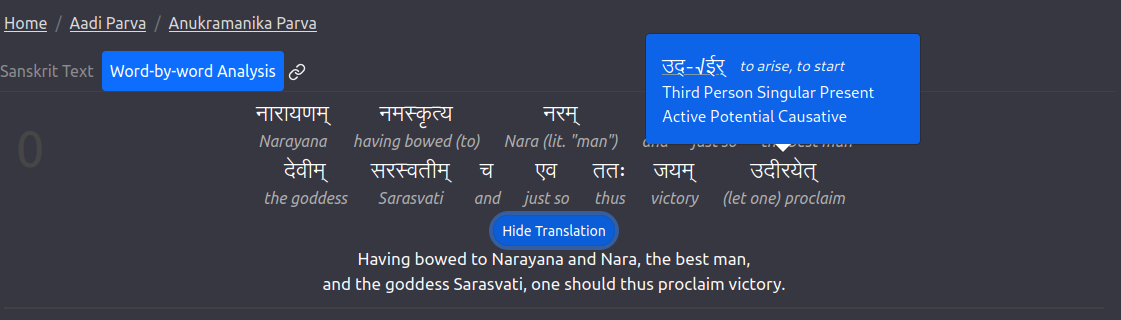
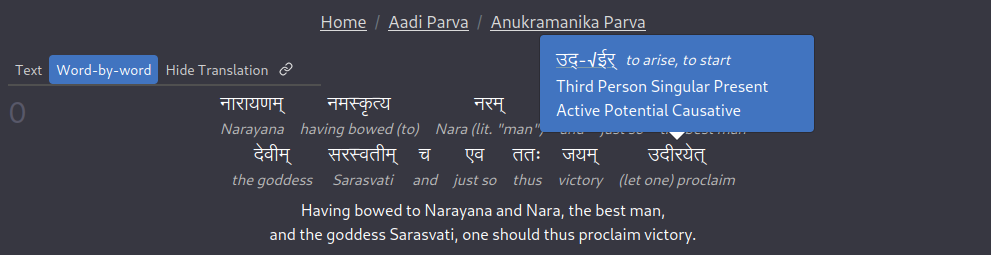
Centers breadcrumbs, reduces verse text width

Changed region(s): [[0.0, 0.0549, 0.8476, 0.9608], [0.0, 0.3843, 0.0303, 0.4941]]

diff --git a/src/components/breadcrumbs.js b/src/components/breadcrumbs.js
@@ -1,15 +1,12 @@
 import { Link } from 'gatsby'
 import * as React from 'react'
 import { Breadcrumb } from 'react-bootstrap'
-import useIsMobile from '../util/responsiveness'
 import { titleCaseFromUrl } from '../util/util'
 
 
 const ResponsiveBreadcrumbs = ({ location }) => {
-    const isMobile = useIsMobile()
-
     let breadcrumbStyle = {
-        fontSize: "16px"
+        fontSize: "17px"
     };
     let breadcrumbs = [
         <Breadcrumb.Item key="/" linkProps={{ "to": "/" }} linkAs={Link} style={breadcrumbStyle}>
@@ -28,12 +25,12 @@ const ResponsiveBreadcrumbs = ({ location }) => {
     }
 
     return (
-        (isMobile) ?
-            <></>
-            :
-            <Breadcrumb style={{ paddingBottom: "5px" }}>
-                {breadcrumbs}
-            </Breadcrumb>
+        <Breadcrumb style={{
+            paddingBottom: "5px", width: "fit-content",
+            marginLeft: "auto", marginRight: "auto"
+        }}>
+            {breadcrumbs}
+        </Breadcrumb>
     )
 }
 

diff --git a/src/pages/index.js b/src/pages/index.js
@@ -8,7 +8,7 @@ const BookLink = ({ book }) => {
     return (
         <Link to={toUrl(book)} style={{ textDecoration: "none" }}>
             <ListGroup.Item variant="dark" eventKey={book}>
-                <p style={{ fontSize: "20px" }}>
+                <p style={{ fontSize: "17px" }}>
                     {book}
                 </p>
             </ListGroup.Item>
@@ -27,7 +27,7 @@ const Index = ({ location, data }) => {
                 If this is your first time here, you may want to check out
                 the <Link to={toUrl("/about")}>About</Link> page.
                 Otherwise, click one of the rows below or use the <b>All Verses</b> button in the top-right
-                to get started!
+                to get started.
             </p>
             <ListGroup>
                 {

diff --git a/src/components/verse.js b/src/components/verse.js
@@ -240,8 +240,10 @@ const Verse = ({ num, text, wordByWord, translation, location }) => {
     return (
         <OffsetAnchor id={`verse_${num}`} >
             <div style={{
-                maxWidth: "1000px", marginRight: "auto", marginLeft: "auto",
-                paddingBottom: "5px", marginBottom: "5px",
+                maxWidth: "950px",
+                marginRight: "auto", marginLeft: "auto",
+                marginBottom: "5px",
+                paddingBottom: "5px",
                 backgroundColor: isActive ? "rgb(66, 66, 78)" : "inherit",
                 borderRadius: "7px",
             }}>

diff --git a/src/components/verse.module.css b/src/components/verse.module.css
@@ -1,6 +1,6 @@
 .verse-text {
     font-size: 19px;
-    color: rgb(252, 251, 250);
+    color: rgb(255, 255, 255);
     padding-bottom: 2px;
     white-space: pre-wrap;
     text-align: center;
@@ -10,7 +10,7 @@
 
 .translation-text {
     font-size: 16px;
-    color: rgb(252, 251, 250);
+    color: rgb(255, 255, 255);
     padding-bottom: 5px;
     padding-top: 5px;
     white-space: pre-wrap;

diff --git a/src/pages/{textJson.book}/index.js b/src/pages/{textJson.book}/index.js
@@ -8,7 +8,7 @@ const ChapterLink = ({ chapter }) => {
     return (
         <Link to={toUrl(chapter)} style={{ textDecoration: "none" }}>
             <ListGroup.Item variant="dark" eventKey={chapter}>
-                <p style={{ fontSize: "20px" }}>
+                <p style={{ fontSize: "17px" }}>
                     {chapter}
                 </p>
             </ListGroup.Item>

diff --git a/README.md b/README.md
@@ -49,5 +49,5 @@ Each word is broken down into its roots, which can be clicked to go to the corre
 
 ## Contributing
 
-If you'd like to contribute to this project, there are several ways to do so!
+If you'd like to contribute to this project, there are several ways to do so;
 See [CONTRIBUTING.md](./CONTRIBUTING.md) for details.
